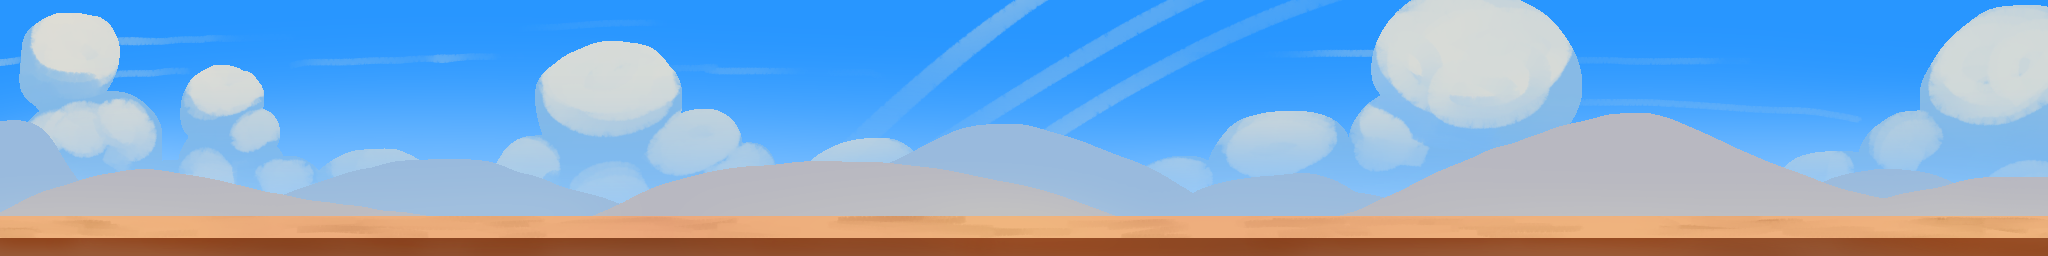
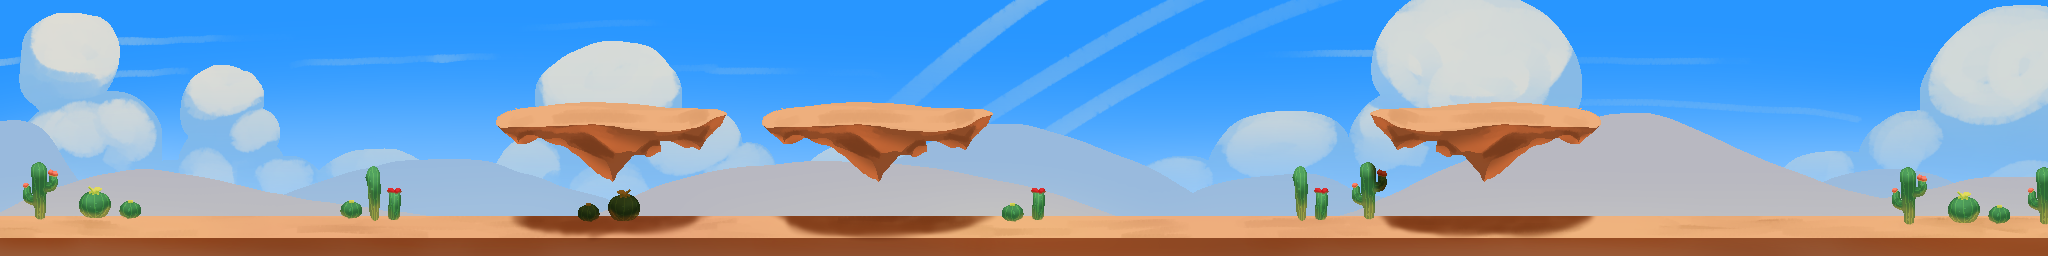
adding background refinement

diff --git a/hello.c b/hello.c
@@ -37,8 +37,7 @@ int main(){
     must_init(al_init_image_addon(), "image addon");
 
     //setting world rules
-    struct environment world;
-    world.shadow = 7;    
+    struct environment world; 
     world.gravity = 40;
     world.screen_width = 1280;
     world.screen_height = 720;
@@ -194,10 +193,6 @@ int main(){
                     
                 }
 
-                if (player.y <= world.floor){
-                    player.shadow_mod = (player.y - world.floor) / 100;
-                }
-
                 if (player.y <= world.floor - (8 * player.frame_jump)){
                     world.air_round++;
                     if(al_key_down(&ks, ALLEGRO_KEY_SPACE) && world.air_round < 30){
@@ -260,13 +255,6 @@ int main(){
                     
                 }
 
-
-                //PLAYER SHADOW INFO====================================================================================
-                player.shadow_x = player.x + (player.dimensions/2);
-                player.shadow_y = world.floor + 93;
-                player.shadow_height = world.shadow + player.shadow_mod;
-                player.shadow_width = (player.shadow_height * 3);
-
             
                 redraw = true;  // set to be redrawn
                 break;
@@ -293,8 +281,6 @@ int main(){
             //bkg
             al_draw_scaled_bitmap(world.bkg, world.bkg_off_x, 0, ((world.bkg_img_og_height * world.screen_width)/world.screen_height), world.bkg_img_og_height, 0, 0, world.screen_width, world.screen_height, 0);
             
-            //player shadow
-            al_draw_filled_ellipse(player.shadow_x, player.shadow_y, player.shadow_width, player.shadow_height, al_map_rgba_f(0, 0, 0, 0.5));
 
             //STAMINA BAR
             al_draw_filled_rectangle(20, 60, (5 * MAX_STAMINA) + 20, 70, al_map_rgb(255, 0, 0));
@@ -312,10 +298,16 @@ int main(){
 
             //projectile
             draw_bullet(weapon);
+
+            //PARAMETERS FOR PLATFORM
+            if(00 - world.bkg_off_x >=0 && 800 - world.bkg_off_x <=world.screen_width){
+                al_draw_line(1000 - world.bkg_off_x, 0, 1000 - world.bkg_off_x, world.screen_height, al_map_rgb(66, 32, 34), 2);
+            }
+        
+           
             
             //player
-            al_draw_scaled_bitmap(player.sprite, player.sprite_off_x, player.sprite_off_y, player.og_dimensions, player.og_dimensions, player.x, player.y, player.dimensions, player.dimensions, 0);
-            
+            al_draw_tinted_scaled_bitmap(player.sprite, al_map_rgb(255, 255, 255), player.sprite_off_x, player.sprite_off_y, player.og_dimensions, player.og_dimensions, player.x, player.y, player.dimensions, player.dimensions, 0);
             
             al_draw_text(font, al_map_rgb(35, 66, 32), 20, 50, 0, "STAMINA LEVEL");
             al_draw_text(font, al_map_rgb(66, 32, 34), 20, 5, 0, "LIFE FORCE");

diff --git a/player.c b/player.c
@@ -35,9 +35,6 @@ void initialize_player_info(struct environment world, struct player *player){
     player->jump_enable = true; //jump enabled
     player->sprite_off_x = 0;
     player->sprite_off_y = 64;
-    player->shadow_height = 7;
-    player->shadow_width = 21;
-    player->shadow_mod = 0;
     player->stamina = MAX_STAMINA;
     player->stamina_recount = MAX_STAMINA;
 

diff --git a/player.h b/player.h
@@ -33,11 +33,6 @@ struct player{
 
     bool life[MAX_LIFE];
 
-    int shadow_x;
-    int shadow_y;
-    int shadow_height;
-    int shadow_width;
-    int shadow_mod;
 
     ALLEGRO_BITMAP *sprite;
     ALLEGRO_BITMAP *heart;
@@ -48,7 +43,6 @@ struct player{
 };
 
 struct environment{
-    int shadow;
     int screen_width;
     int screen_height;
     float floor;
